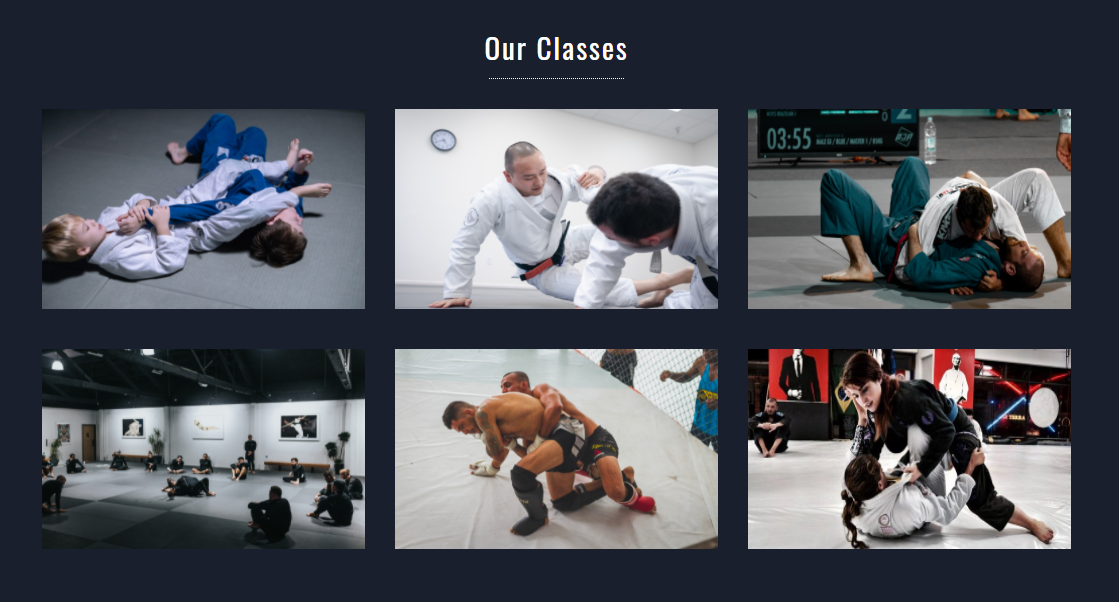
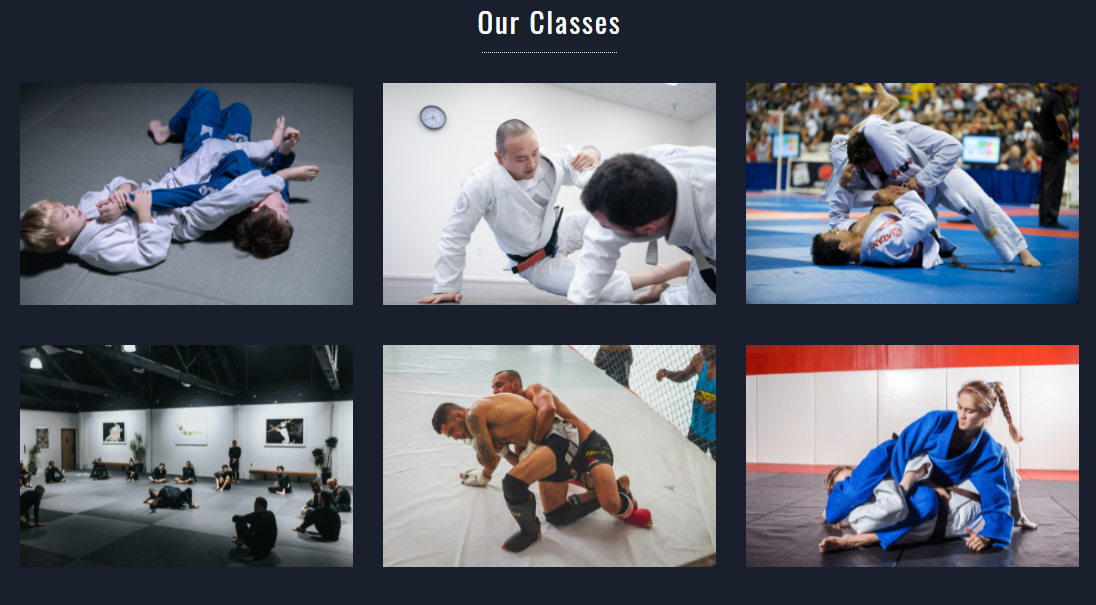
Alter some images on Our Classes and Gallery and update readme.

diff --git a/assets/css/style.css b/assets/css/style.css
@@ -281,7 +281,7 @@ a:link, a:visited {
 
 .card-classes img {
     width: 100%;
-    height: 200px;
+    height: 100%;
 }
 
 .caption {
@@ -567,7 +567,7 @@ input[type="text"]:hover, input[type="email"]:hover, #select-field:hover {
     border: none;
 }
 
-.success-icon{
+.success-icon {
     font-size: 12em;
     color: #00ff00;
     margin: 0 auto;
@@ -577,6 +577,7 @@ input[type="text"]:hover, input[type="email"]:hover, #select-field:hover {
 .row~h2.thank-you {
     font-size: 3em;
 }
+
 .row p.thank-you {
     text-align: center;
     font-weight: 600;
@@ -592,6 +593,10 @@ input[type="text"]:hover, input[type="email"]:hover, #select-field:hover {
 }
 
 @media (max-width: 768px) {
+    .grid {
+        width: 90%;
+        margin: 0 auto;
+    }
     #nav, #menu {
         -webkit-box-orient: vertical;
         -webkit-box-direction: normal;

diff --git a/index.html b/index.html
@@ -298,7 +298,7 @@
                 </div>
 
                 <div class="gallery-image">
-                    <img src="./assets/img/women-bjj.png" alt="Two women practicing jiu-jitsu.">
+                    <img src="./assets/img/women2-bjj.png" alt="Two women practicing jiu-jitsu.">
                 </div>
 
                 <div class="gallery-image">

diff --git a/README.md b/README.md
@@ -116,6 +116,7 @@ Advanced BJJ - Photo by <a href="https://unsplash.com/@felipesimo?utm_source=uns
 Beginner BJJ - Photo by <a href="https://unsplash.com/@richbustos?utm_source=unsplash&utm_medium=referral&utm_content=creditCopyText" target="_blank" rel="noopener">Richard Bustos</a> on <a href="https://unsplash.com/s/photos/jiu-jitsu?utm_source=unsplash&utm_medium=referral&utm_content=creditCopyText" target="_blank" rel="noopener">Unsplash</a><br>
 MMA BJJ - Photo by Bruno Bueno from Pexels<br>
 No-GI - Photo by <a href="https://unsplash.com/@nate_dumlao?utm_source=unsplash&utm_medium=referral&utm_content=creditCopyText" target="_blank" rel="noopener">Nathan Dumlao</a> on <a href="https://unsplash.com/s/photos/jiu-jitsu?utm_source=unsplash&utm_medium=referral&utm_content=creditCopyText" target="_blank" rel="noopener">Unsplash</a><br>
+Women's Only Class - <a href="https://jiujitsu-news.com/" target="_blank" rel="noopener">Jiu-Jitsu News</a><br>
 Main Picture - Photo by <a href="https://pixabay.com/users/gregorycosta-260339/?utm_source=link-attribution&amp;utm_medium=referral&amp;utm_campaign=image&amp;utm_content=2957075" target="_blank" rel="noopener">gregorycosta</a> from <a href="https://pixabay.com/?utm_source=link-attribution&amp;utm_medium=referral&amp;utm_campaign=image&amp;utm_content=2957075" target="_blank" rel="noopener">Pixabay</a><br>
 
 ## Gallery
@@ -125,4 +126,5 @@ Photo by <a href="https://unsplash.com/@jonathanborba?utm_source=unsplash&utm_me
 Photo by <a href="https://unsplash.com/@timothyeberly?utm_source=unsplash&utm_medium=referral&utm_content=creditCopyText" target="_blank" rel="noopener">Timothy Eberly</a> on <a href="https://unsplash.com/s/photos/jiu-jitsu?utm_source=unsplash&utm_medium=referral&utm_content=creditCopyText" target="_blank" rel="noopener">Unsplash</a><br>
 Photo by cottonbro on Pexels<br>
 Image by <a href="https://pixabay.com/users/mikepesh-3053031/?utm_source=link-attribution&amp;utm_medium=referral&amp;utm_campaign=image&amp;utm_content=1575854" target="_blank" rel="noopener">mikepesh</a> from <a href="https://pixabay.com/?utm_source=link-attribution&amp;utm_medium=referral&amp;utm_campaign=image&amp;utm_content=1575854" target="_blank" rel="noopener">Pixabay</a><br>
-Photo by <a href="https://unsplash.com/@crotalus?utm_source=unsplash&utm_medium=referral&utm_content=creditCopyText" target="_blank" rel="noopener">Samuel Castro</a> on <a href="https://unsplash.com/s/photos/jiu-jitsu?utm_source=unsplash&utm_medium=referral&utm_content=creditCopyText" target="_blank" rel="noopener">Unsplash</a>
+Photo by <a href="https://unsplash.com/@crotalus?utm_source=unsplash&utm_medium=referral&utm_content=creditCopyText" target="_blank" rel="noopener">Samuel Castro</a> on <a href="https://unsplash.com/s/photos/jiu-jitsu?utm_source=unsplash&utm_medium=referral&utm_content=creditCopyText" target="_blank" rel="noopener">Unsplash</a><br>
+<a href="https://www.jiujitsutimes.com/bjj-for-women/" target="_blank" rel="noopener">Jiu Jitsu Times<a>
